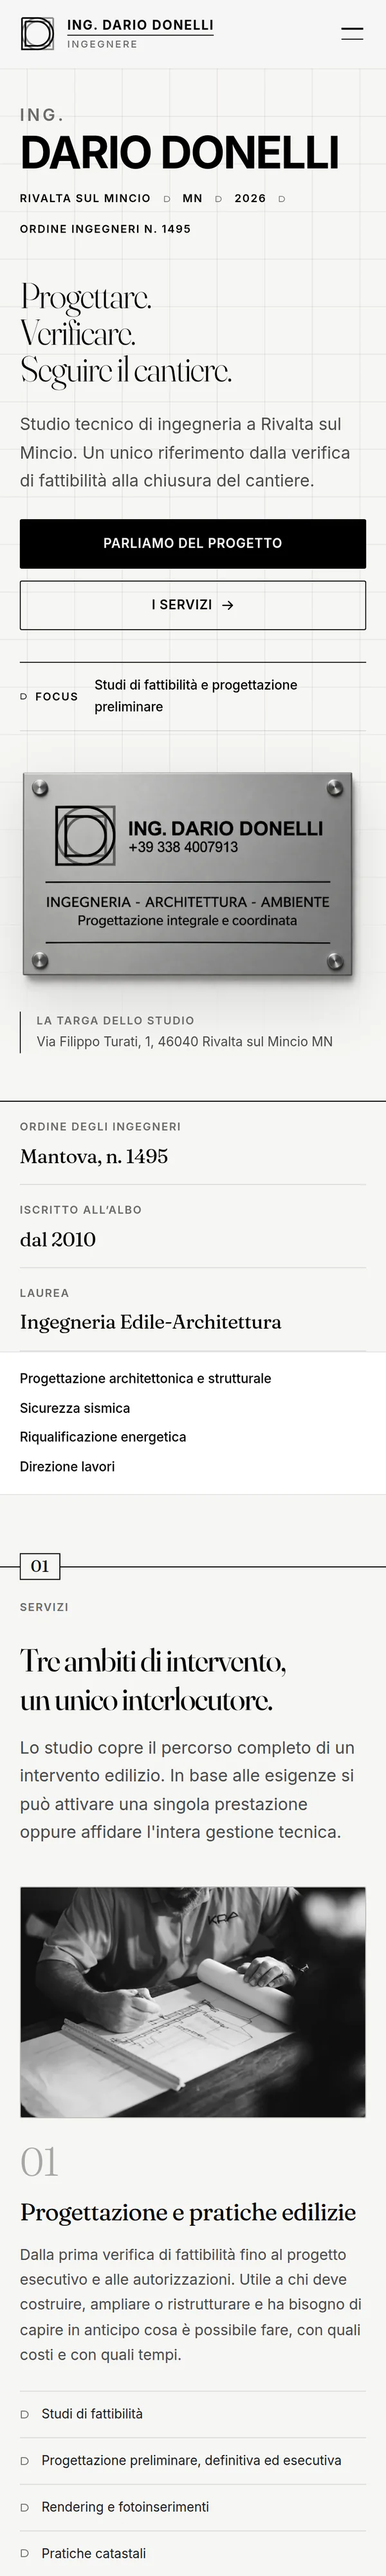
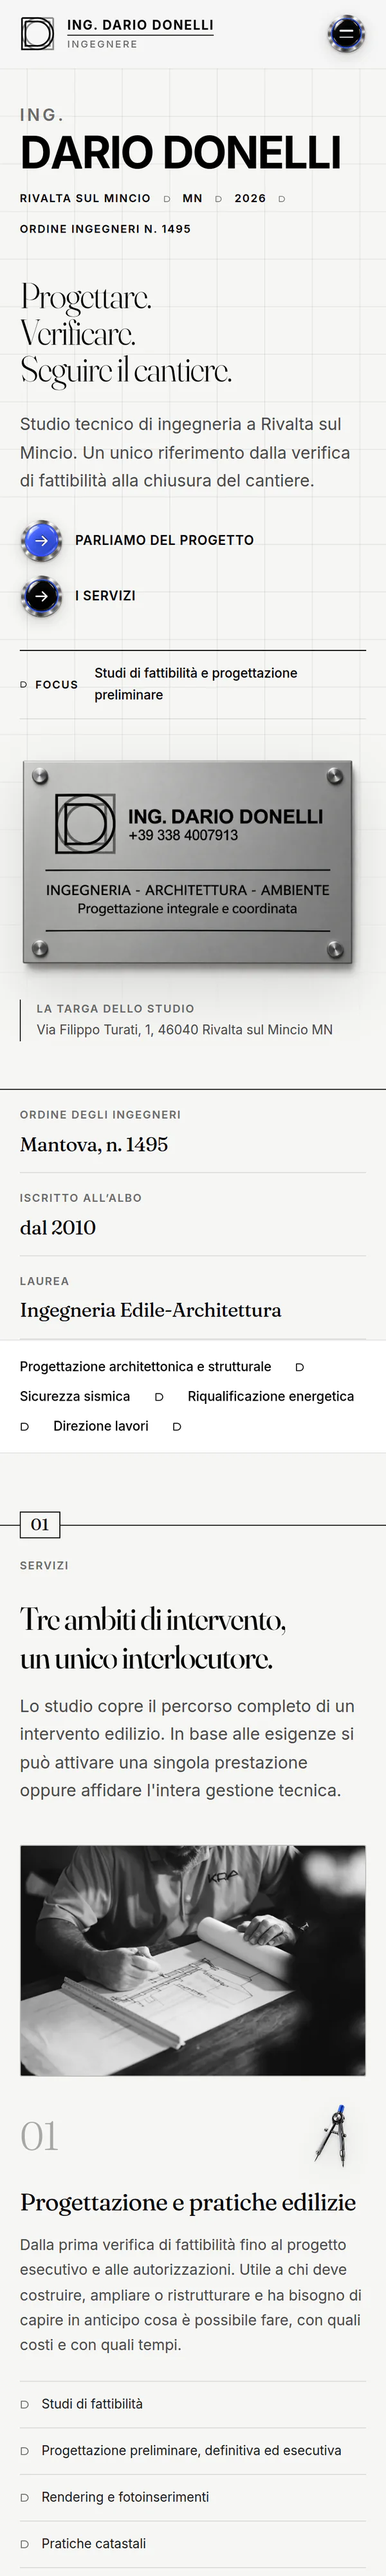
Catture aggiornate: Ing. Dario Donelli
Rifatte da .github/workflows/catture.yml: il sito online era cambiato.

diff --git a/albertopecchini.it/src/data/catture.js b/albertopecchini.it/src/data/catture.js
@@ -22,11 +22,11 @@ export const catture = {
   'cascina-mobile.webp': { w: 600, h: 1298, v: '4b5a2a22' },
   'cascina-prodotti-desktop.webp': { w: 1200, h: 750, v: '46061402' },
   'cascina-tablet.webp': { w: 720, h: 1036, v: '19d30650' },
-  'dd-desktop-tall.webp': { w: 1200, h: 2833, v: 'c11f0386' },
-  'dd-desktop.webp': { w: 1200, h: 750, v: 'e2b8eafa' },
-  'dd-mobile-tall.webp': { w: 600, h: 4000, v: '256c3ade' },
-  'dd-mobile.webp': { w: 600, h: 1298, v: 'ecef205f' },
-  'dd-tablet.webp': { w: 720, h: 1036, v: '9a9c9a96' },
+  'dd-desktop-tall.webp': { w: 1200, h: 2833, v: 'dc21d031' },
+  'dd-desktop.webp': { w: 1200, h: 750, v: '2b1ca57f' },
+  'dd-mobile-tall.webp': { w: 600, h: 4000, v: '972f60c0' },
+  'dd-mobile.webp': { w: 600, h: 1298, v: '3df6428b' },
+  'dd-tablet.webp': { w: 720, h: 1036, v: '442e3f3a' },
   'rivalta-desktop-tall.webp': { w: 1200, h: 2833, v: '6b5c59bf' },
   'rivalta-desktop.webp': { w: 1200, h: 750, v: '688bf171' },
   'rivalta-luogo-tablet.webp': { w: 720, h: 960, v: '5574fc76' },
